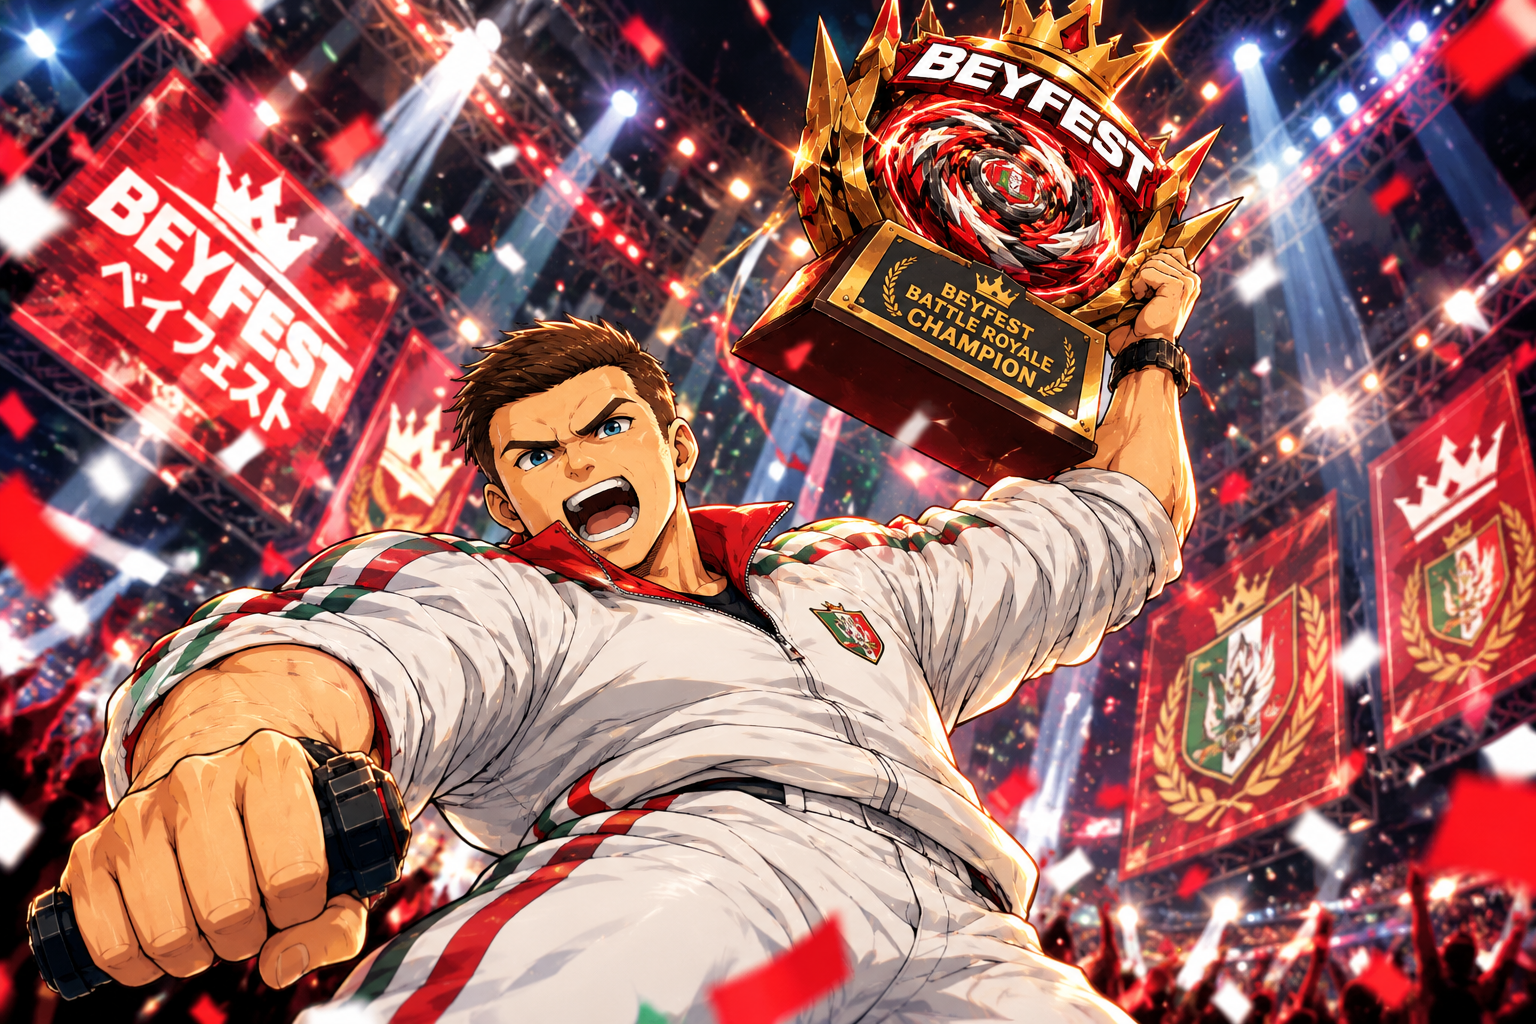
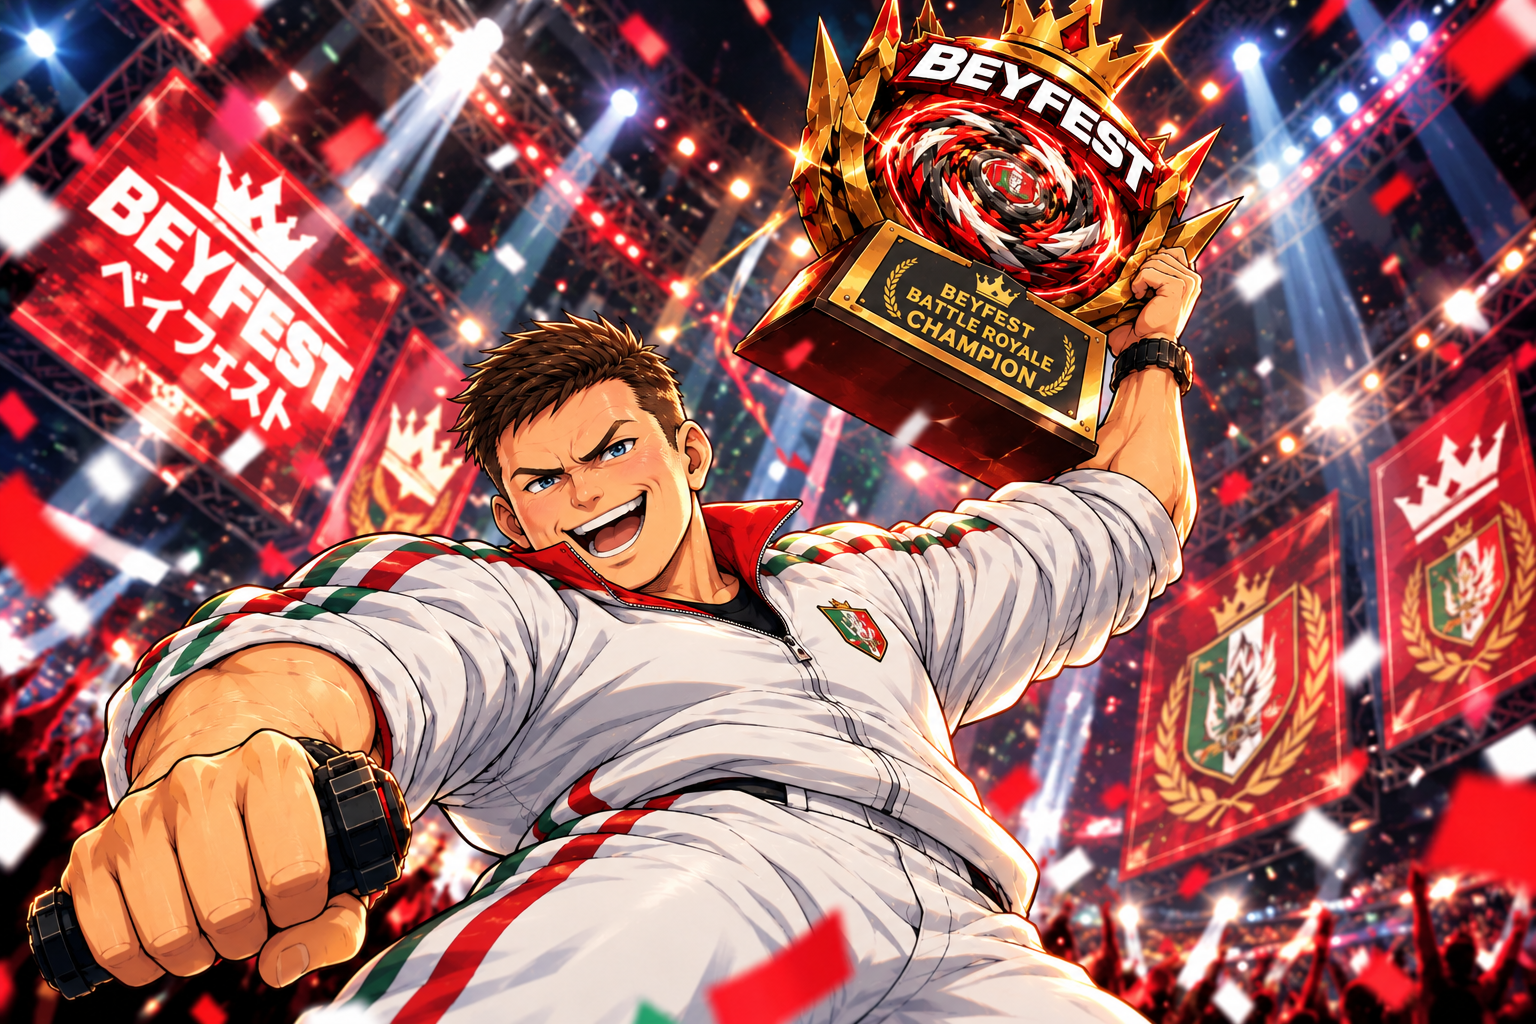
new Breycist victory and royale victory images to match the new design

diff --git a/fighter-art/prompts/breycist.md b/fighter-art/prompts/breycist.md
@@ -127,3 +127,26 @@ Attachments: `0-pose-breycist-G.png`, `1b-style-pugilist-face.png`,
 > other lowered; eyes half-lidded and narrowed, looking sideways at the viewer as if
 > he can't even be bothered to watch his own launch. Smug, too-cool, larger than
 > life, not a realistic subtle smirk. Keep the transparent background.
+
+## Victory images (2026-10-28): approved
+
+Both are full scenes (not cut-outs) with lettering. The champion screen never flips
+them, so the lettering is fine. Each was made in a new chat with three attachments
+(from `reference-photos/breycist/victory-upload/` and `royale-upload/`):
+
+1. The old victory image, as the **scene template** ("keep the arena, crowd, belt or
+   trophy, pose, outfit and ALL the lettering exactly").
+2. `approved/breycist.png`, as the **character** (face, cheeks, fair skin, hair).
+3. The Pugilist head close-up, as the **rendering reference**.
+
+The expression asked for was the same as the action image: an exaggerated cocky,
+triumphant grin, lopsided, one brow raised.
+
+- **Belt (`approved/victory-breycist.png`):** the first try kept everything but came out
+  with spiky hair; one edit ("only his hair, on him and on the big screen… no sharp
+  spikes") fixed it.
+- **Royale (`approved/royale-victory-breycist.png`):** the hair wording was in the
+  first prompt, so it came out right first time.
+
+**Lesson:** put the full hair description in the first prompt; "match image 2" alone
+isn't enough, and ChatGPT drifts back to spikes.
